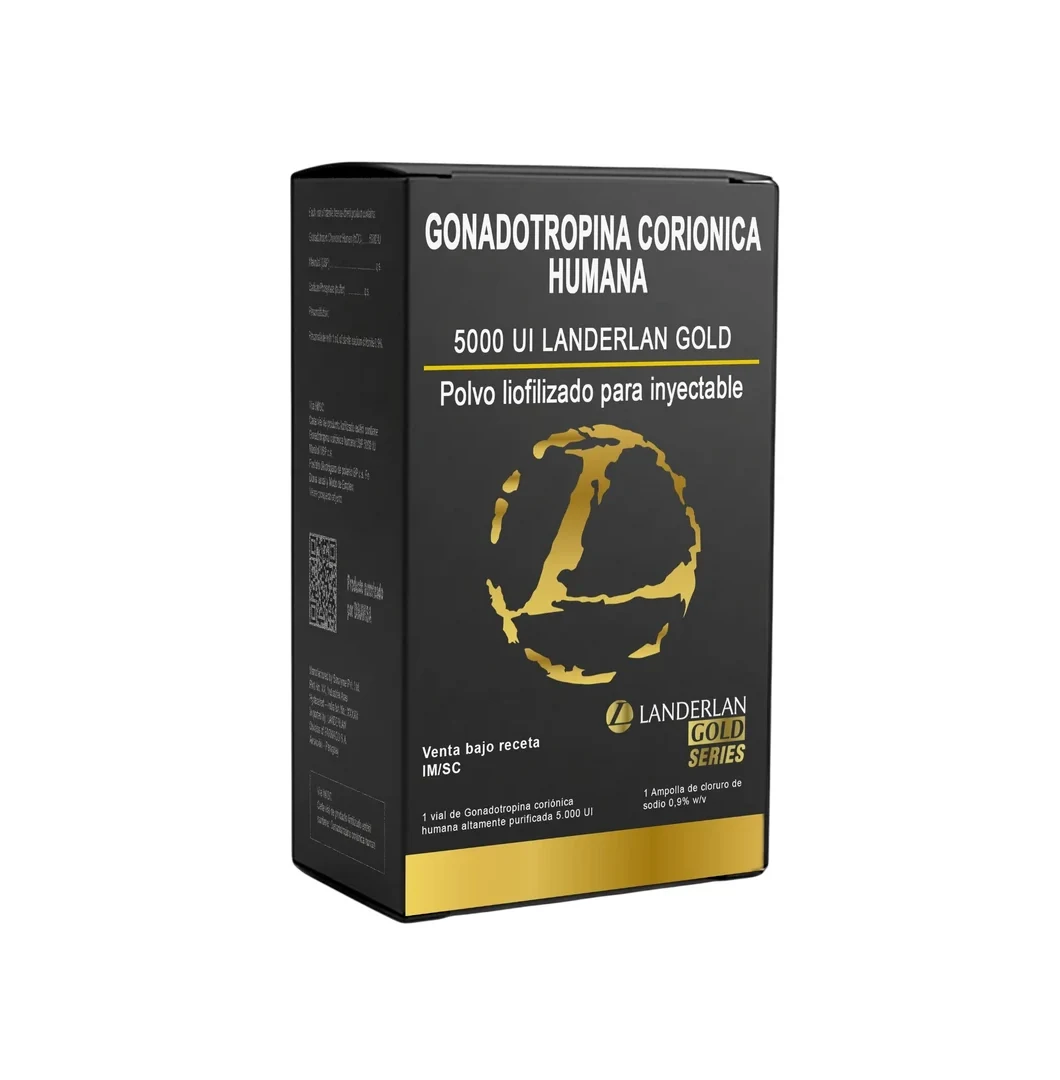
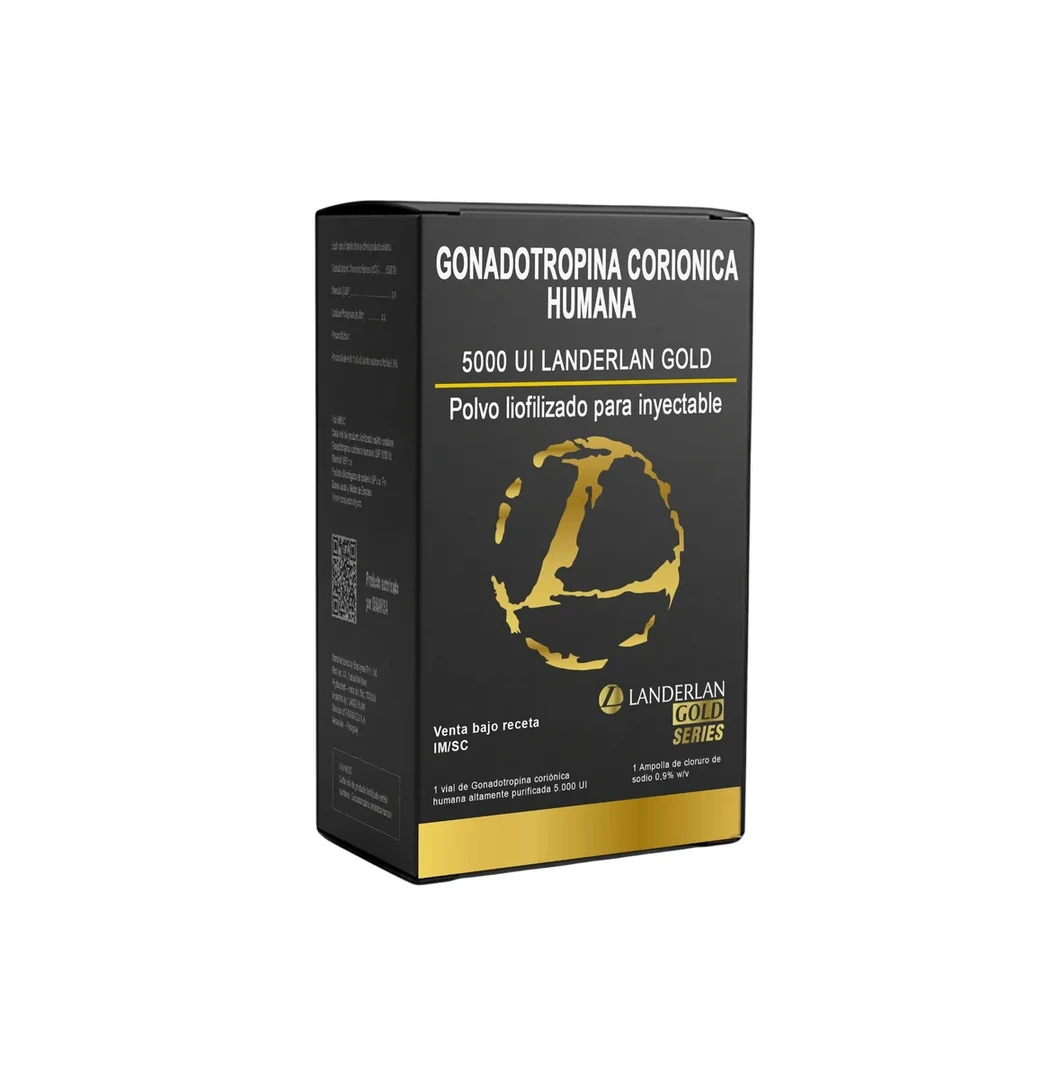
Reduce el tamano del empaque en la imagen del HCG

Changed region(s): [[0.2491, 0.1222, 0.7472, 0.8556]]

diff --git a/site/scripts/measure_product_ratio.py b/site/scripts/measure_product_ratio.py
@@ -1,0 +1,23 @@
+from PIL import Image, ImageChops
+import os
+
+base = "/home/abgroup/catalogo/static/img"
+files = ["anstroprime-1-mg-53421.webp", "hcg-10-000-ui.webp", "stanoplex-10-ml.webp",
+         "chorionic-gonadotrophin.webp", "trenboplex-acetato.png", "oxanprime-10-mg.webp",
+         "boldeprime-200-mg-5.webp"]
+
+for f in files:
+    p = os.path.join(base, f)
+    if not os.path.exists(p):
+        continue
+    im = Image.open(p).convert("RGBA")
+    w, h = im.size
+    bg = Image.new("RGBA", im.size, (255, 255, 255, 255))
+    diff = ImageChops.difference(im, bg)
+    bbox = diff.getbbox()
+    if not bbox:
+        print(f, "sin bbox")
+        continue
+    bwd = bbox[2] - bbox[0]
+    bht = bbox[3] - bbox[1]
+    print(f"{f:<34} lienzo {w}x{h}  empaque {bwd}x{bht}  ancho {bwd/w:.0%}  alto {bht/h:.0%}")

diff --git a/site/scripts/format_hcg_image.py b/site/scripts/format_hcg_image.py
@@ -9,7 +9,7 @@ SRC = r"C:\anabolicgroup\imagenes\hcg-5000-ui-landerlan.webp"
 OUT = r"C:\anabolicgroup\imagenes\hcg-5000-ui-landerlan-final.webp"
 
 CANVAS = (1060, 1080)      # mismo formato que el resto del catalogo
-FIT = (880, 880)           # caja dentro del lienzo (deja margen)
+FIT = (740, 740)           # empaque al ~70% del lienzo, con margen amplio
 BG = (255, 255, 255, 255)
 
 im = Image.open(SRC).convert("RGBA")

diff --git a/HISTORIAL.md b/HISTORIAL.md
@@ -872,3 +872,7 @@ Recibida en `imagenes/hcg-5000-ui-landerlan.webp` (823x823). Se formateo al patr
 ### 2026-11-18 - HCG 5000 UI Landerlan publicado
 
 El usuario indico que el producto debe aparecer disponible. Lista (fila 38 LANDERLAN) pasa a Publicado = "Si" y en el catalogo LAN-REC-018 queda is_published=1 (stock instock, $74.99). Ficha activa en /producto/hcg-5000-ui/. Catalogo: 89 productos, 61 publicados. Regenerados CSV/Excel (88 miniaturas) e informe.
+
+### 2026-11-18 - Imagen del HCG Landerlan: empaque mas chico
+
+El empaque se redujo al ~68% del lienzo (740 de 1080 px), con margen amplio y proporcion intacta, para que se vea como el resto de las fichas. Regenerado el Excel (88 miniaturas).
